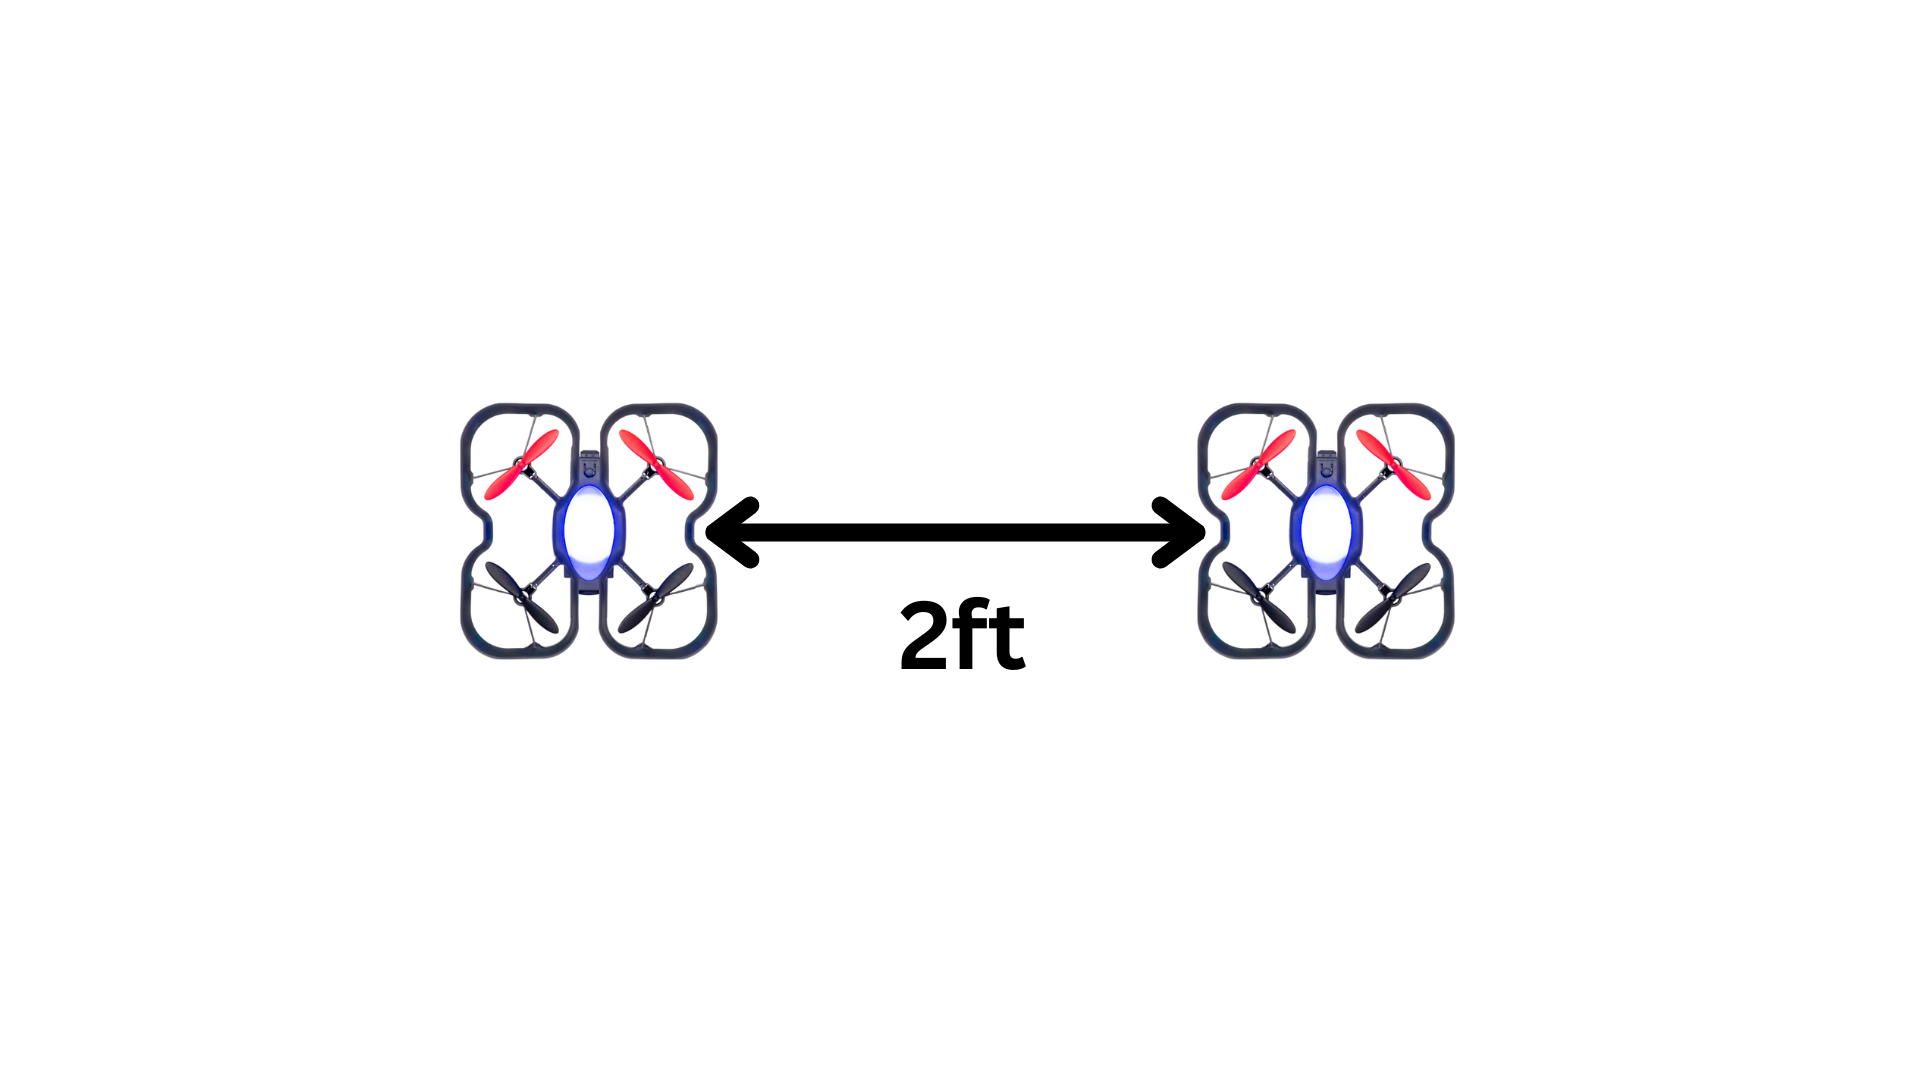
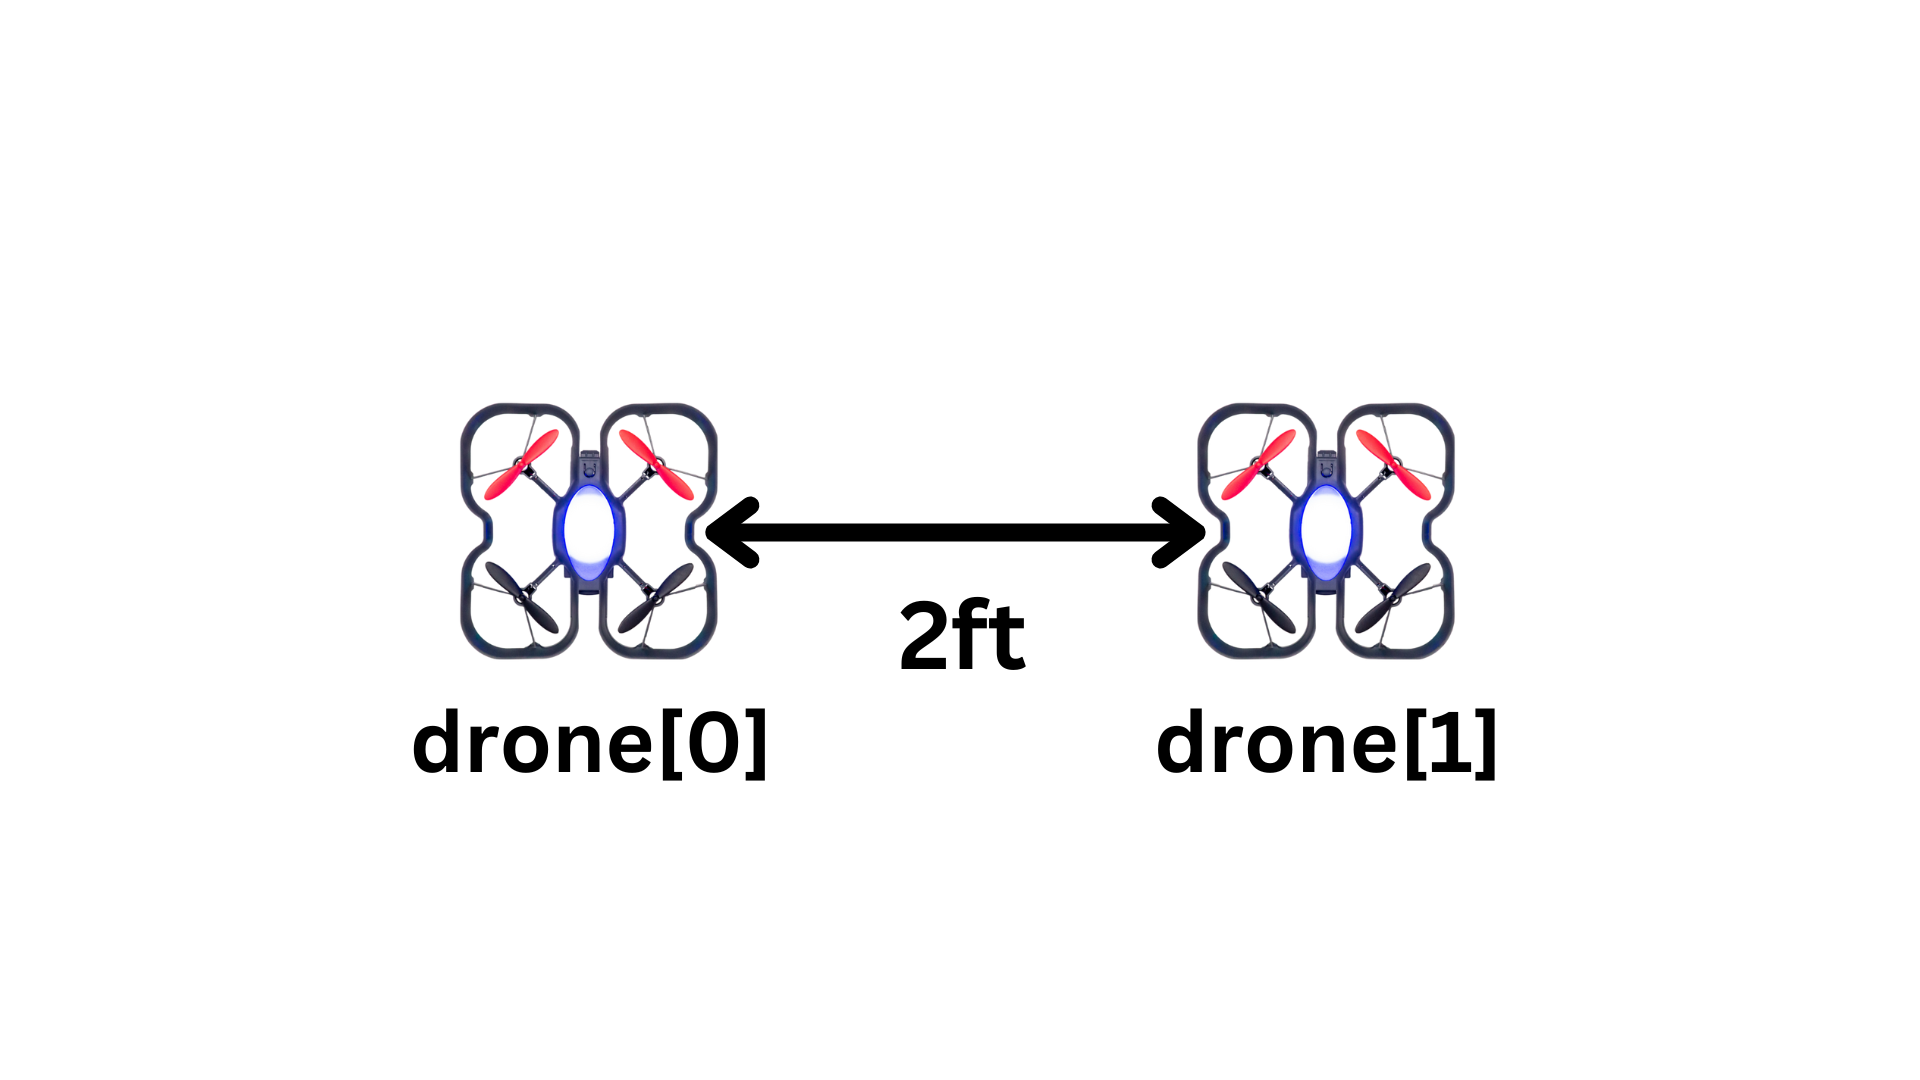
added drone indices to gifs

Changed region(s): [[0.2188, 0.6417, 0.4062, 0.7333], [0.5938, 0.6417, 0.7812, 0.7333]]

diff --git a/docs/CoDroneEDU/Python/page5.md b/docs/CoDroneEDU/Python/page5.md
@@ -30,6 +30,8 @@ Swarm is a coordinated and programmed process where drones perform a sequence of
   - It's **recommended** to use a USB hub with at least 2 USB-A ports for this.
   - Otherwise, use the available USB-A ports in your computer.
 
+<img src="/img/CDE/swarm_usb_connect.png" width="600"/>
+
 <!-- #### Installing ``codrone-edu``
 To use our swarm feature in PyCharm, you must install codrone-edu v2.2 using the following steps:
 1. Click on "File" on the top-left side of the window, and then click on "Settings". This will lead to a pop-up window with different settings for your PyCharm project.
